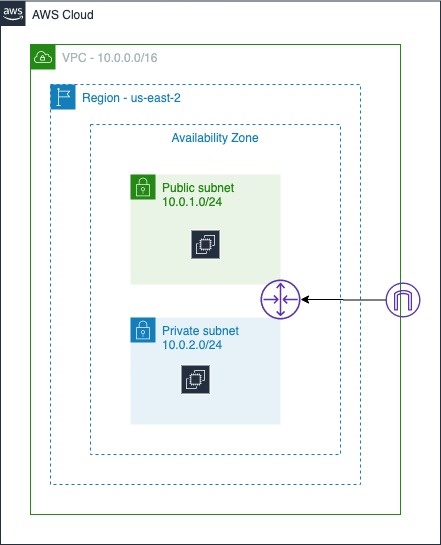
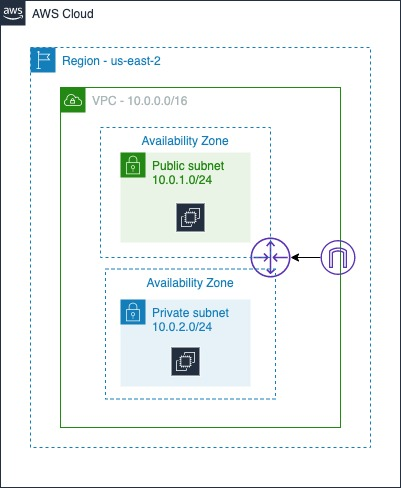
day 2: vertual private cloud

diff --git a/log.md b/log.md
@@ -18,3 +18,27 @@
 
 **Work & Resources**:\
 [Shared Responsibility Model](https://aws.amazon.com/compliance/shared-responsibility-model/)
+
+<hr>
+
+### Day 2 - Foundational & Compute Service
+
+#### November 8, 2020
+
+**Focus**: The focus today was on Virtual Private Cloud (VPC).
+
+**Progress**:
+
+- Learn the importance of the VPC
+- Lean about subnets, route tables, security groups, network gateways, etc
+- Understanding the default VPC
+- Understanding Region and Availability Zone, and their impact
+- Creating custom VPC
+
+**Thoughts**: Creating a custom VPC was challenging. With persistence and perseverance I was able to get it done. I am longer using the default VPC.
+
+**Work & Resources**:\
+[Virtual private cloud](https://en.wikipedia.org/wiki/Virtual_private_cloud)\
+[Amazon VPC Documentation](https://docs.aws.amazon.com/vpc/latest/userguide/what-is-amazon-vpc.html)\
+
+![Custom VPC](images/custom-vpc.jpg)
